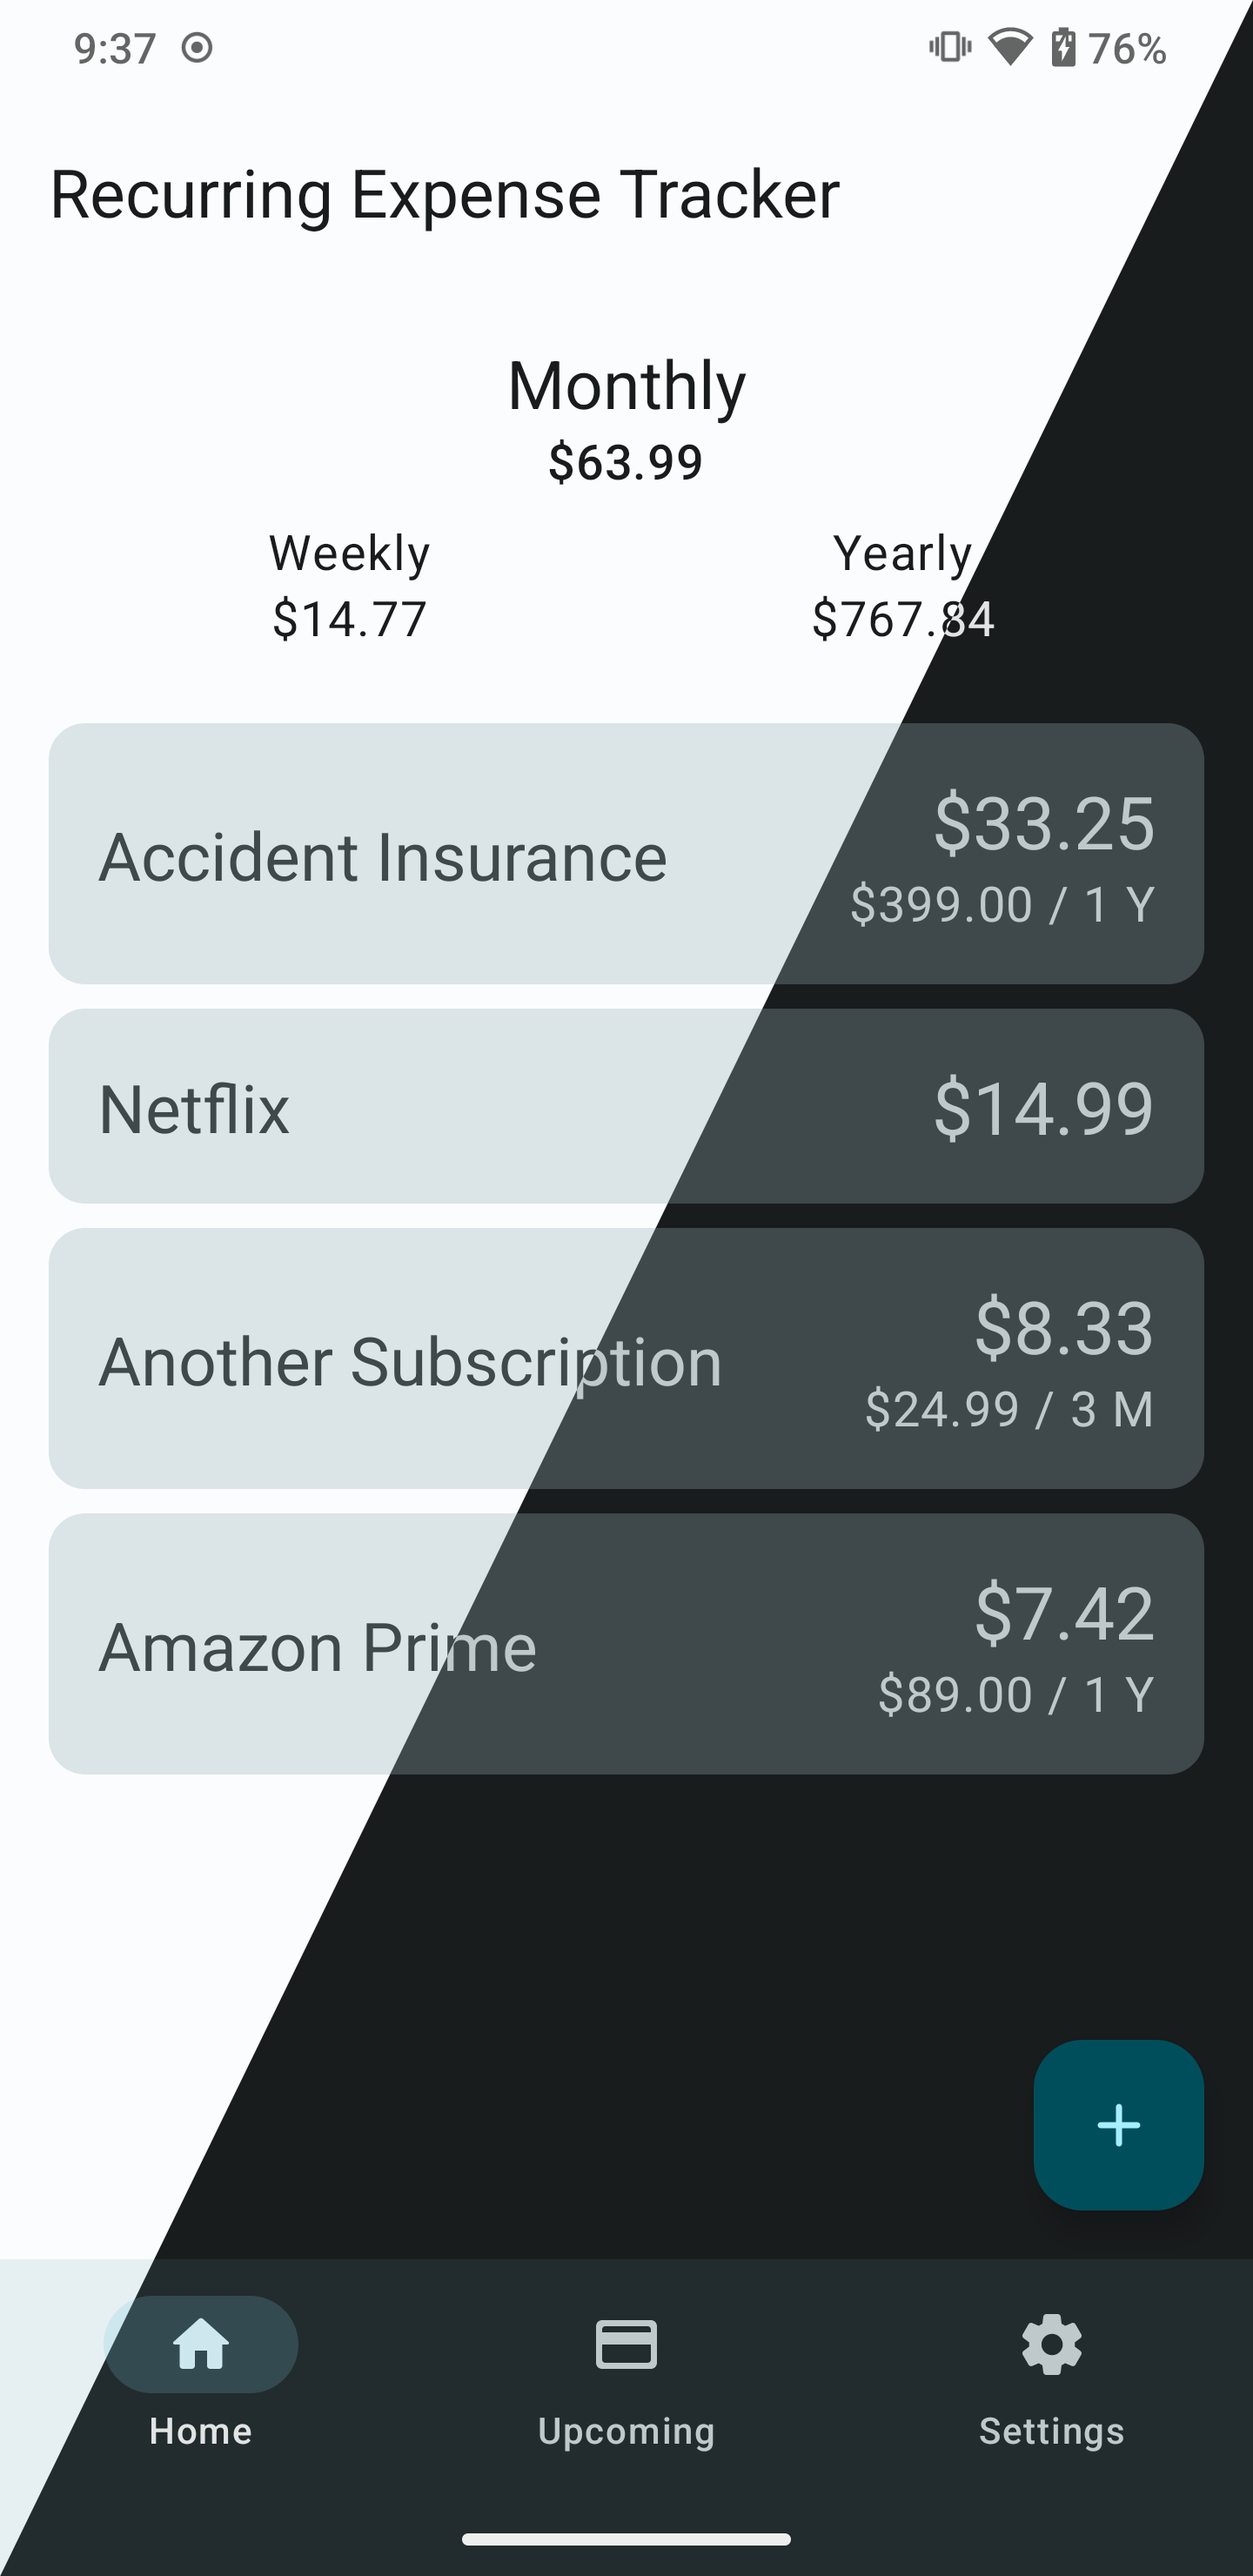
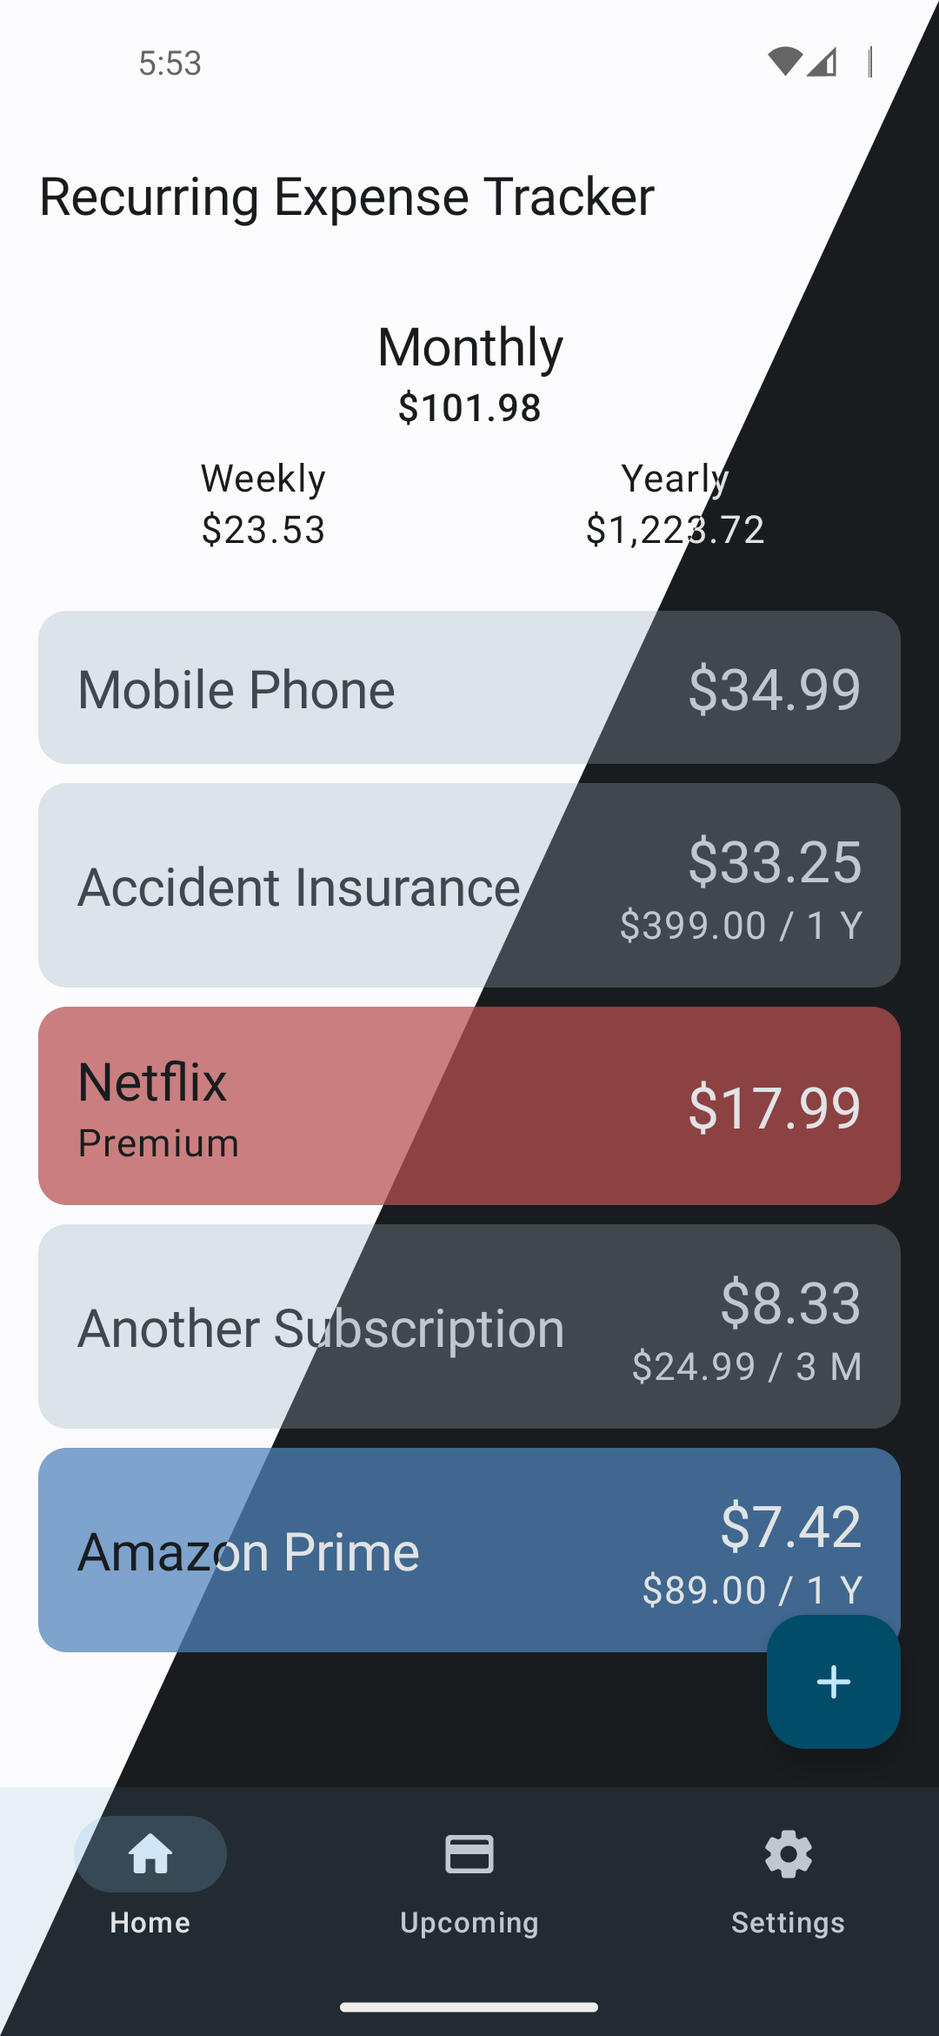
Create new release 0.5.0
Add changelog
Update screenshots

diff --git a/README.md b/README.md
@@ -28,4 +28,6 @@ It's a simple app with the basic functionality. My idea is to add new features o
 <img src="fastlane/metadata/android/en-US/images/phoneScreenshots/02.png" width="360"/>
 <img src="fastlane/metadata/android/en-US/images/phoneScreenshots/03.png" width="360"/>
 <img src="fastlane/metadata/android/en-US/images/phoneScreenshots/04.png" width="360"/>
+<img src="fastlane/metadata/android/en-US/images/phoneScreenshots/05.png" width="360"/>
+<img src="fastlane/metadata/android/en-US/images/phoneScreenshots/06.png" width="360"/>
 </div>
